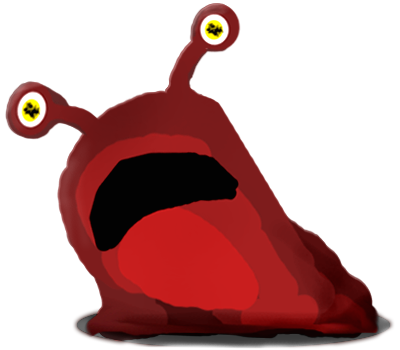
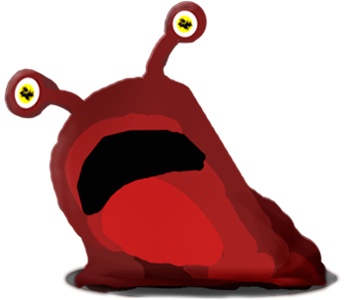
monster name render

diff --git a/core/src/com/mygdx/game/games/cardfight/monsters/AbstractUnit.java b/core/src/com/mygdx/game/games/cardfight/monsters/AbstractUnit.java
@@ -1,8 +1,11 @@
 package com.mygdx.game.games.cardfight.monsters;
 
 import com.badlogic.gdx.Gdx;
+import com.badlogic.gdx.graphics.Color;
 import com.badlogic.gdx.graphics.Texture;
+import com.badlogic.gdx.graphics.g2d.BitmapFont;
 import com.badlogic.gdx.graphics.g2d.SpriteBatch;
+import com.mygdx.game.games.cardfight.CardFight;
 import com.mygdx.game.games.cardfight.Hitbox;
 import com.mygdx.game.games.cardfight.ui.HoverableUiElement;
 
@@ -11,6 +14,7 @@ import java.util.Map;
 
 abstract public class AbstractUnit implements HoverableUiElement {
   private static final String UNIT_IMAGE_DIRECTORY = "images/units/";
+  private final Color NAME_TEXT_COLOR = Color.YELLOW.cpy();
 
 //  private static Texture targetBorder;
   private boolean selected = false;
@@ -18,12 +22,17 @@ abstract public class AbstractUnit implements HoverableUiElement {
   public final static int DEFAULT_WIDTH = 200;
   public final static int DEFAULT_HEIGHT = 295;
 
+  private static final int DEFAULT_NAME_OFFSET_X = 140;
+  public final static int DEFAULT_NAME_OFFSET_Y = 16;
+
   private final static Map<String, Texture> unitImageMap = new HashMap<>();
 
   public final String key;
   public final String name;
   private Texture image;
   public Hitbox hitbox;
+
+  private boolean renderNameFlag = false;
 
   public AbstractUnit(String key, String name, String imgPath, Hitbox hitbox) {
     this.key = key;
@@ -59,6 +68,9 @@ abstract public class AbstractUnit implements HoverableUiElement {
 
   public void render(SpriteBatch sb, float objectScale) {
     renderImage(sb, objectScale);
+    if (renderNameFlag) {
+      this.renderName(sb, 1.0f);
+    }
   }
 
   private void renderImage(SpriteBatch sb, float objectScale) {
@@ -66,11 +78,20 @@ abstract public class AbstractUnit implements HoverableUiElement {
   }
 
   public void update() {
-    if (this.isHovered()) {
-      System.out.println("AbstractUnit::update hovered over " + this.getClass().getSimpleName());
-    }
+    renderNameFlag = this.isHovered();
   }
 
+  private int getTextWidth(String text) {
+    return DEFAULT_NAME_OFFSET_X;
+  }
+
+  private void renderName(SpriteBatch sb, float objectScale) {
+    BitmapFont font = CardFight.font;
+    font.setColor(NAME_TEXT_COLOR);
+    font.draw(sb, name,
+        this.hitbox.getXPosition() + (float)(getWidth() - getTextWidth(name)) / 2,
+        getYPosition() + getHeight() + DEFAULT_NAME_OFFSET_Y);
+  }
 
   protected void setTargeted() {
     this.selected = true;

diff --git a/core/src/com/mygdx/game/games/cardfight/ui/DrawButton.java b/core/src/com/mygdx/game/games/cardfight/ui/DrawButton.java
@@ -42,7 +42,7 @@ public class DrawButton extends AbstractButton {
   public void use() {
     Player player = CardFight.player;
     if (player.hand.size() < Player.STARTING_HAND_SIZE) {
-//      CardFight.playSound("SFX_UI_CLICK_1");
+      CardFight.playSound("SFX_UI_CLICK_1");
       System.out.println("Initiating draw or shuffle action.");
         if (player.deck.size() == 0) {
           System.out.println("Initiating shuffle action.");

diff --git a/core/src/com/mygdx/game/games/cardfight/monsters/Slug.java b/core/src/com/mygdx/game/games/cardfight/monsters/Slug.java
@@ -7,8 +7,8 @@ public class Slug extends  AbstractMonster {
   public static final String NAME = "Blood Slug";
   public static final String IMG_PATH = "blood-slug.png";
 
-  private static int WIDTH = 400;
-  private static int HEIGHT = 350;
+  private static int WIDTH = 345;
+  private static int HEIGHT = 300;
 
   public Slug(){
     super(KEY, NAME, IMG_PATH, new Hitbox(0,0, WIDTH, HEIGHT));
